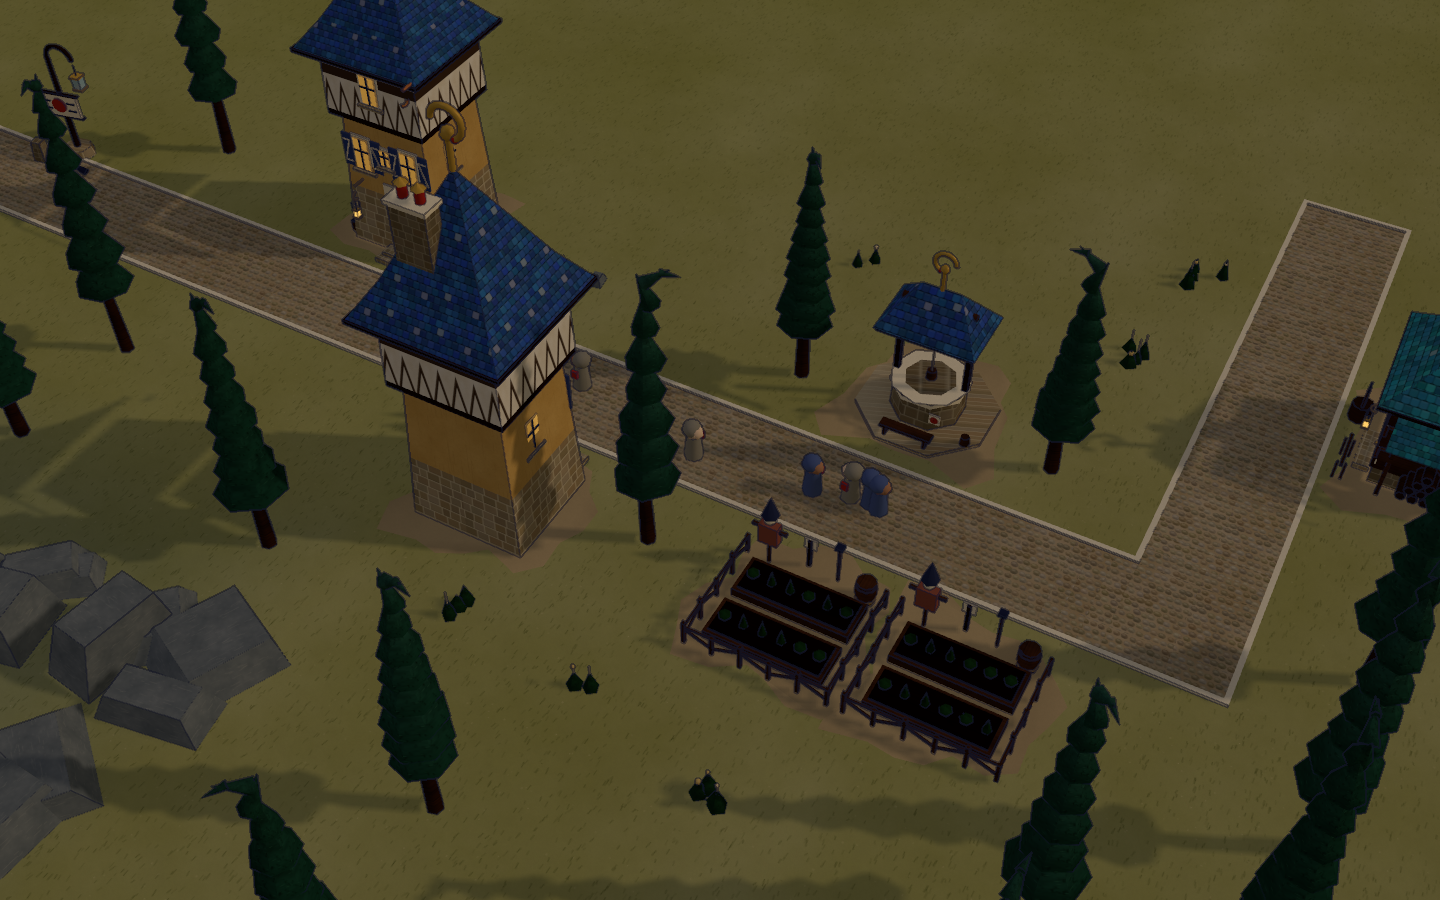
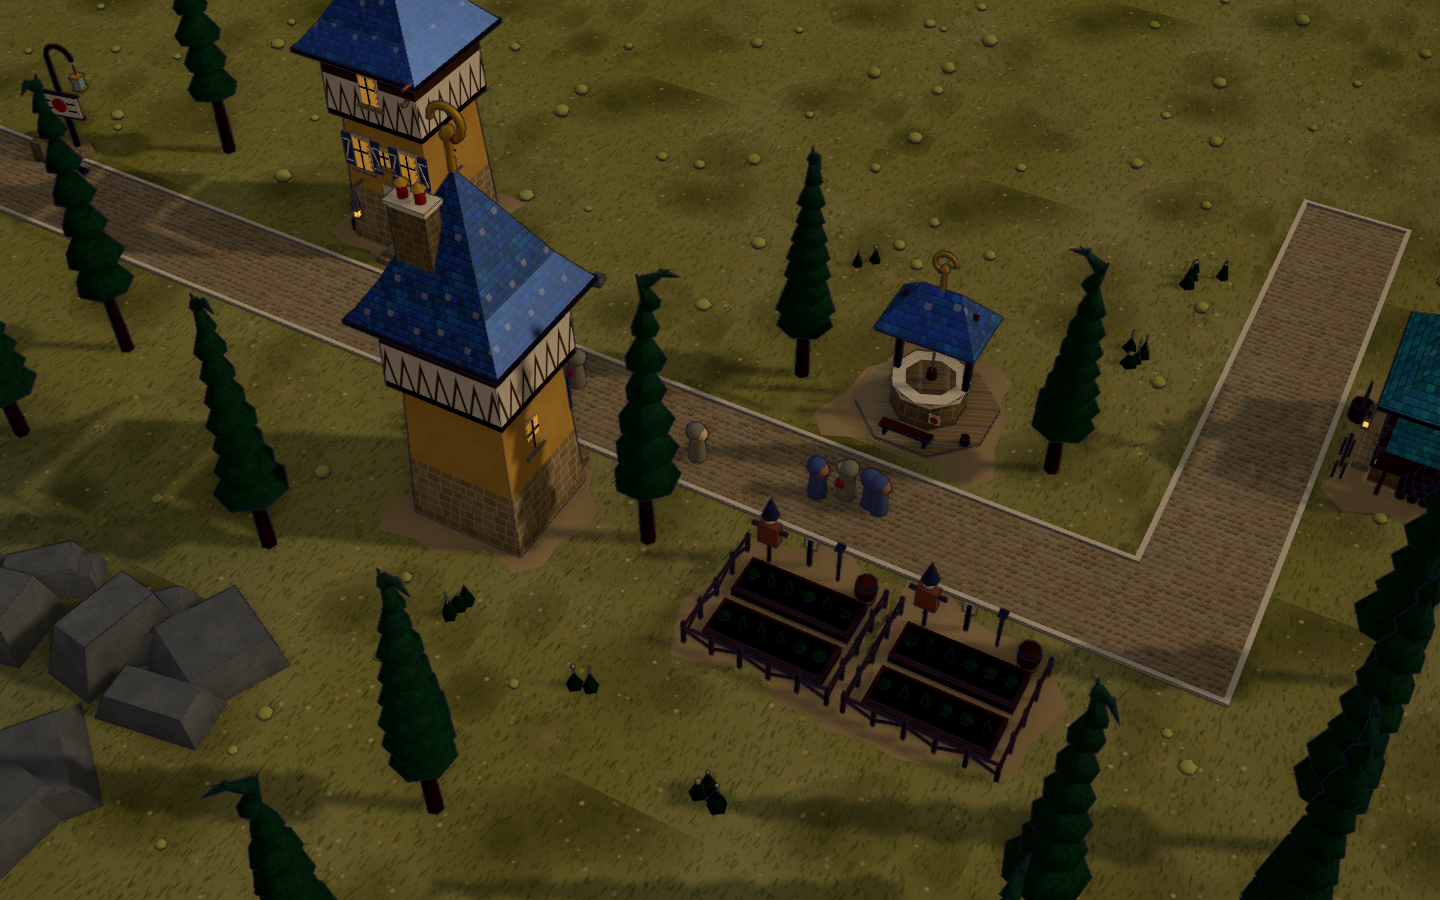
Graphics pass: SSAO, sky gradient, glazed tile sheen, softer shadows, richer meadow
Ambient occlusion and a display-space grade in the ink composite, 4096 PCF
shadows on a tighter frustum, painted sky where there is no geometry, Phong
sheen on the glazed tiles, a richer meadow texture with pale tufts, baked
contact darkening at the foot of every building, pixel ratio up to 2.
Constitution v3 records what was kept and what was rejected.

Claude-Session: https://claude.ai/code/session_01W6QVXe3nt4epi226JdoceJ

diff --git a/src/render/inkpass.js b/src/render/inkpass.js
@@ -1,9 +1,25 @@
 import * as THREE from 'three';
 import { paperGrainTex } from './textures.js';
 
-// Ink pass: renders colour + depth, then normals, then draws ink lines where depth or
-// normals break, and lays paper grain over everything. This is what makes Hookwell read
-// as a drawing rather than a mesh.
+// Ink pass: renders colour + depth, then view-space normals, then in one composite:
+//  - screen-space ambient occlusion from depth + normals (grounds every object)
+//  - ink lines where depth or normals break
+//  - a painted sky gradient where there is no geometry
+//  - a gentle wash grade, vignette and paper grain
+// This is what makes Hookwell read as a drawing rather than a mesh.
+
+function makeKernel(n) {
+  const out = [];
+  let seed = 3;
+  const rnd = () => { seed = (seed * 16807) % 2147483647; return seed / 2147483647; };
+  for (let i = 0; i < n; i++) {
+    const v = new THREE.Vector3(rnd() * 2 - 1, rnd() * 2 - 1, rnd()).normalize();
+    let s = (i + 1) / n; s = 0.15 + 0.85 * s * s;   // cluster near the origin
+    v.multiplyScalar(rnd() * s);
+    out.push(v);
+  }
+  return out;
+}
 
 export class InkPass {
   constructor(renderer, scene, camera) {
@@ -12,22 +28,32 @@ export class InkPass {
     this.rt = new THREE.WebGLRenderTarget(size.x, size.y, { type: THREE.HalfFloatType, samples: 4, depthTexture: new THREE.DepthTexture(size.x, size.y, THREE.UnsignedIntType) });
     this.rtN = new THREE.WebGLRenderTarget(size.x, size.y, { samples: 4 });
     this.normalMat = new THREE.MeshNormalMaterial();
+    const N = 12;
     this.mat = new THREE.ShaderMaterial({
+      defines: { N_SAMPLES: N },
       uniforms: {
         tColor: { value: this.rt.texture }, tDepth: { value: this.rt.depthTexture }, tNormal: { value: this.rtN.texture },
         tPaper: { value: paperGrainTex() }, res: { value: new THREE.Vector2(size.x, size.y) },
         near: { value: camera.near }, far: { value: camera.far }, ink: { value: new THREE.Color(0x1b1e33) },
-        strength: { value: 0.85 }, grain: { value: 0.14 }, night: { value: 0 },
+        proj: { value: new THREE.Matrix4() }, projInv: { value: new THREE.Matrix4() },
+        kernel: { value: makeKernel(N) }, aoRadius: { value: 1.6 }, aoStrength: { value: 0.75 },
+        strength: { value: 0.85 }, grain: { value: 0.11 }, night: { value: 0 }, lineW: { value: 1 },
+        skyTop: { value: new THREE.Color(0xcfd9df) }, skyBot: { value: new THREE.Color(0xeadfc6) },
       },
       vertexShader: `varying vec2 vUv; void main(){ vUv = uv; gl_Position = vec4(position.xy, 0.0, 1.0); }`,
       fragmentShader: `
-        uniform sampler2D tColor, tDepth, tNormal, tPaper; uniform vec2 res; uniform float near, far, strength, grain, night; uniform vec3 ink;
+        uniform sampler2D tColor, tDepth, tNormal, tPaper; uniform vec2 res; uniform float near, far, strength, grain, night, aoRadius, aoStrength, lineW;
+        uniform vec3 ink, skyTop, skyBot; uniform mat4 proj, projInv; uniform vec3 kernel[N_SAMPLES];
         varying vec2 vUv;
         float lin(vec2 uv){ float z = texture2D(tDepth, uv).x; float n = z*2.0-1.0; return (2.0*near*far)/(far+near-n*(far-near)); }
+        vec3 viewPos(vec2 uv){ float z = texture2D(tDepth, uv).x; vec4 c = projInv * vec4(uv*2.0-1.0, z*2.0-1.0, 1.0); return c.xyz / c.w; }
+        float ign(vec2 p){ return fract(52.9829189 * fract(0.06711056*p.x + 0.00583715*p.y)); }
         void main(){
-          vec2 px = 1.0/res;
+          vec2 px = lineW/res;
           float d = lin(vUv);
-          vec3 n = texture2D(tNormal, vUv).xyz*2.0-1.0;
+          float sky = step(far*0.9, d);
+          vec3 n = normalize(texture2D(tNormal, vUv).xyz*2.0-1.0);
+          // ---- ink lines
           float de = 0.0, ne = 0.0;
           vec2 offs[4]; offs[0]=vec2(px.x,0.0); offs[1]=vec2(-px.x,0.0); offs[2]=vec2(0.0,px.y); offs[3]=vec2(0.0,-px.y);
           for(int i=0;i<4;i++){
@@ -36,15 +62,52 @@ export class InkPass {
             vec3 nn = texture2D(tNormal, vUv+offs[i]).xyz*2.0-1.0;
             ne += smoothstep(0.30, 0.55, 1.0-dot(n,nn));
           }
-          float edge = clamp(de*0.9 + ne*0.55, 0.0, 1.0);
+          float edge = clamp(de*0.9 + ne*0.55, 0.0, 1.0) * (1.0 - sky);
           float fade = 1.0 - smoothstep(70.0, 160.0, d);
+          // ---- ambient occlusion
+          float ao = 1.0;
+          if (sky < 0.5) {
+            vec3 p = viewPos(vUv);
+            float a = ign(gl_FragCoord.xy) * 6.2831853;
+            vec3 rv = vec3(cos(a), sin(a), 0.0);
+            vec3 t = normalize(rv - n * dot(rv, n));
+            vec3 b = cross(n, t);
+            mat3 tbn = mat3(t, b, n);
+            float occ = 0.0;
+            float radius = aoRadius * (1.0 + d * 0.01);
+            for (int i = 0; i < N_SAMPLES; i++) {
+              vec3 sp = p + tbn * kernel[i] * radius;
+              vec4 c = proj * vec4(sp, 1.0);
+              vec2 suv = c.xy / c.w * 0.5 + 0.5;
+              if (suv.x < 0.0 || suv.x > 1.0 || suv.y < 0.0 || suv.y > 1.0) continue;
+              float sceneZ = -viewPos(suv).z;
+              float sampleZ = -sp.z;
+              float range = smoothstep(0.0, 1.0, radius / abs((-p.z) - sceneZ));
+              occ += (sceneZ < sampleZ - 0.04 ? 1.0 : 0.0) * range;
+            }
+            ao = 1.0 - aoStrength * occ / float(N_SAMPLES);
+          }
+          // ---- compose
           vec3 col = texture2D(tColor, vUv).rgb;
+          col *= mix(1.0, ao, 1.0 - night*0.4);
           vec3 inkCol = mix(ink, col*0.35, 0.25);
           col = mix(col, inkCol, edge*strength*fade);
+          // sky where there is no geometry
+          vec3 skyCol = mix(skyBot, skyTop, smoothstep(0.30, 1.0, vUv.y));
+          col = mix(col, skyCol, sky);
           float g = texture2D(tPaper, vUv*res/256.0).r;
           col *= 1.0 - grain*(1.0-night*0.6) + grain*2.0*(g-0.5);
-          gl_FragColor = vec4(col, 1.0);
+          gl_FragColor = vec4(max(col, 0.0), 1.0);
           #include <colorspace_fragment>
+          // wash grade in display space: a touch of saturation and contrast, warm shadows, vignette
+          vec3 c = gl_FragColor.rgb;
+          float luma = dot(c, vec3(0.299, 0.587, 0.114));
+          c = mix(vec3(luma), c, 1.1);
+          c = (c - 0.5) * 1.05 + 0.5;
+          c += (1.0 - luma) * vec3(0.02, 0.008, -0.01) * (1.0 - night);
+          float v = length((vUv - 0.5) * vec2(1.0, res.y/res.x) * 1.4);
+          c *= 1.0 - 0.14 * smoothstep(0.5, 1.1, v);
+          gl_FragColor.rgb = clamp(c, 0.0, 1.0);
         }`,
       depthTest: false, depthWrite: false,
     });
@@ -58,7 +121,9 @@ export class InkPass {
   }
   render() {
     const r = this.renderer;
-    this.mat.uniforms.near.value = this.camera.near; this.mat.uniforms.far.value = this.camera.far;
+    const u = this.mat.uniforms;
+    u.near.value = this.camera.near; u.far.value = this.camera.far;
+    u.proj.value.copy(this.camera.projectionMatrix); u.projInv.value.copy(this.camera.projectionMatrixInverse);
     r.shadowMap.needsUpdate = true;
     r.setRenderTarget(this.rt); r.render(this.scene, this.camera);
     const bg = this.scene.background; const fog = this.scene.fog;

diff --git a/src/render/scene.js b/src/render/scene.js
@@ -1,4 +1,5 @@
 import * as THREE from 'three';
+import { mergeGeometries } from 'three/addons/utils/BufferGeometryUtils.js';
 import { W, H, TILE, BUILDINGS } from '../game/defs.js';
 import { idx, inBounds, buildingCells, footprint } from '../game/state.js';
 import { doorTile } from '../game/sim.js';
@@ -7,6 +8,7 @@ import { makeGround, makeRoads, makeChannels, leyMaterial, tileToWorld, worldToT
 import { BUILDERS } from './buildings.js';
 import { candlePine, inkwood, bloom, rockTile, spring, milePost, clump, waymark } from './props.js';
 import { personMesh } from './people.js';
+import { mulberry32 } from '../game/state.js';
 import { InkPass } from './inkpass.js';
 
 const PAPER = new THREE.Color(0xe9e2cf);
@@ -49,9 +51,9 @@ export class View {
   constructor(canvas, state) {
     this.state = state;
     this.renderer = new THREE.WebGLRenderer({ canvas, antialias: false, powerPreference: 'high-performance' });
-    this.renderer.setPixelRatio(Math.min(window.devicePixelRatio || 1, 1.5));
+    this.renderer.setPixelRatio(Math.min(window.devicePixelRatio || 1, 2));
     this.renderer.shadowMap.enabled = true;
-    this.renderer.shadowMap.type = THREE.PCFSoftShadowMap;
+    this.renderer.shadowMap.type = THREE.PCFShadowMap;
     this.renderer.shadowMap.autoUpdate = false;
     this.scene = new THREE.Scene();
     this.scene.background = PAPER.clone();
@@ -63,10 +65,10 @@ export class View {
     // lights
     this.sun = new THREE.DirectionalLight(0xffffff, 2.0);
     this.sun.castShadow = true;
-    this.sun.shadow.mapSize.set(2048, 2048);
+    this.sun.shadow.mapSize.set(4096, 4096);
     this.sun.shadow.camera.near = 10; this.sun.shadow.camera.far = 220;
-    this.sun.shadow.bias = -0.0008; this.sun.shadow.normalBias = 0.03;
-    this.sun.shadow.radius = 2;
+    this.sun.shadow.bias = -0.0005; this.sun.shadow.normalBias = 0.04;
+    this.sun.shadow.radius = 5;
     this.scene.add(this.sun); this.scene.add(this.sun.target);
     this.hemi = new THREE.HemisphereLight(0xe9e4d3, 0xc9b48c, 0.9);
     this.scene.add(this.hemi);
@@ -85,6 +87,7 @@ export class View {
     }
     { const [wx, wz] = tileToWorld(3, state.entry.y); const m = waymark(); m.position.set(wx + 0.3, 0, wz - 1.75); m.rotation.y = 0.2; this.static.add(m); }
     this.leyMat = leyMaterial();
+    this.tufts = this.makeTufts(); this.scene.add(this.tufts);
     this.roads = null; this.channels = null;
     this.tileObjs = new Map();     // idx -> {key, obj}
     this.buildingObjs = new Map(); // id -> {key, obj}
@@ -112,6 +115,7 @@ export class View {
     this.camera.aspect = w / h; this.camera.updateProjectionMatrix();
     const s = this.renderer.getDrawingBufferSize(new THREE.Vector2());
     this.ink.setSize(s.x, s.y);
+    this.ink.mat.uniforms.lineW.value = Math.max(1, s.x / 1500);
   }
 
   // ------------------------------------------------------------ camera
@@ -125,7 +129,7 @@ export class View {
     this.camera.lookAt(c.x, 0, c.z);
     // shadow frustum follows the camera target
     const sc = this.sun.shadow.camera;
-    const ext = Math.max(40, c.dist * 1.3);
+    const ext = Math.max(28, c.dist * 0.95);
     sc.left = -ext; sc.right = ext; sc.top = ext; sc.bottom = -ext; sc.updateProjectionMatrix();
     this.sun.target.position.set(c.x, 0, c.z);
   }
@@ -173,6 +177,7 @@ export class View {
     if (this.roads) this.dyn.remove(this.roads);
     this.roads = makeRoads(s); this.dyn.add(this.roads);
     this.rebuildChannels();
+    this.refreshTufts();
     // tiles: trees, bloom
     const seen = new Set();
     for (let y = 0; y < H; y++) for (let x = 0; x < W; x++) {
@@ -250,6 +255,39 @@ export class View {
     }
   }
 
+  makeTufts() {
+    // low pale tufts: a squat cone with a lighter tip, one draw call for the whole meadow
+    const g = new THREE.SphereGeometry(0.2, 6, 4); g.scale(1, 0.55, 1); g.translate(0, 0.08, 0);
+    const pos = g.getAttribute('position'); const col = new Float32Array(pos.count * 3);
+    for (let i = 0; i < pos.count; i++) { const f = 0.8 + 0.3 * Math.max(0, pos.getY(i) / 0.2); col[i * 3] = f; col[i * 3 + 1] = f; col[i * 3 + 2] = f * 0.9; }
+    g.setAttribute('color', new THREE.BufferAttribute(col, 3));
+    const m = new THREE.MeshLambertMaterial({ color: 0xc2c98a, vertexColors: true });
+    const mesh = new THREE.InstancedMesh(g, m, 2600);
+    mesh.receiveShadow = true; mesh.castShadow = false; mesh.frustumCulled = false;
+    return mesh;
+  }
+  refreshTufts() {
+    const s = this.state, mesh = this.tufts;
+    const rnd = mulberry32(99); const mat = new THREE.Matrix4(); const q = new THREE.Quaternion(); const e = new THREE.Euler();
+    const col = new THREE.Color();
+    let n = 0;
+    for (let y = 0; y < H; y++) for (let x = 0; x < W; x++) {
+      const t = s.tiles[idx(x, y)];
+      const [wx, wz] = tileToWorld(x, y);
+      for (let k = 0; k < 2; k++) {
+        const ox = (rnd() - 0.5) * 3.6, oz = (rnd() - 0.5) * 3.6, ry = rnd() * 6.28, sc = 0.6 + rnd() * 0.8;
+        if (t.road || t.building || t.terrain !== 'grass' || t.bloom || t.tree || rnd() < 0.35) continue;
+        if (n >= mesh.count) break;
+        mat.compose(new THREE.Vector3(wx + ox, 0, wz + oz), q.setFromEuler(e.set(0, ry, 0)), new THREE.Vector3(sc, sc * (0.8 + t.fert * 0.5), sc));
+        mesh.setMatrixAt(n, mat);
+        col.setHSL(0.17 - t.fert * 0.04, 0.34, 0.6 + rnd() * 0.15); mesh.setColorAt(n, col);
+        n++;
+      }
+    }
+    for (let i = n; i < mesh.count; i++) { mat.makeScale(0, 0, 0); mesh.setMatrixAt(i, mat); }
+    mesh.instanceMatrix.needsUpdate = true; if (mesh.instanceColor) mesh.instanceColor.needsUpdate = true;
+  }
+
   rebuildChannels() {
     if (this.channels) this.dyn.remove(this.channels);
     this.channels = makeChannels(this.state, this.leyMat); this.dyn.add(this.channels);
@@ -286,14 +324,16 @@ export class View {
     const warm = new THREE.Color(1.0, 0.96, 0.9), gold = new THREE.Color(1.0, 0.72, 0.45);
     const lowSun = 1 - Math.min(1, dayRaw * 1.6);
     this.sun.color.copy(warm).lerp(gold, lowSun);
-    this.sun.intensity = 2.0 * dayF + 0.0;
+    this.sun.intensity = 2.6 * dayF + 0.0;
     const night = 1 - Math.min(1, dayF * 1.6);
     const skyDay = new THREE.Color(0xe9e4d3), skyNight = new THREE.Color(0x1f2440), skyDusk = new THREE.Color(0xe7c7a0);
     const sky = skyDay.clone().lerp(skyDusk, lowSun * (1 - night)).lerp(skyNight, night);
+    const zenith = new THREE.Color(0xc9d6de).lerp(new THREE.Color(0xd8b48c), lowSun * (1 - night)).lerp(new THREE.Color(0x141a30), night);
     this.scene.background.copy(sky); this.scene.fog.color.copy(sky);
+    this.ink.mat.uniforms.skyBot.value.copy(sky); this.ink.mat.uniforms.skyTop.value.copy(zenith);
     this.hemi.color.copy(sky).lerp(new THREE.Color(0xffffff), 0.2);
     this.hemi.groundColor.set(0xc9b48c).lerp(new THREE.Color(0x151a30), night);
-    this.hemi.intensity = 1.15 - night * 0.7;
+    this.hemi.intensity = 0.95 - night * 0.55;
     this.moon.intensity = night * 0.5;
     this.moon.position.set(-40, 60, 30);
     setGlow(Math.min(1, night * 1.4 + lowSun * 0.3));

diff --git a/src/render/textures.js b/src/render/textures.js
@@ -191,14 +191,24 @@ export function cobbleTex(seed = 6) {
 export function groundTex(seed = 7) {
   const S = 512, c = canvas(S, S), ctx = c.getContext('2d'), rnd = mulberry32(seed);
   ctx.fillStyle = '#c7b48d'; ctx.fillRect(0, 0, S, S);
-  mottle(ctx, S, rnd, { h: 62, s: 26, l0: 52, l1: 66, octaves: [3, 6, 14, 48], weights: [0.45, 0.3, 0.2, 0.12] });
-  // grass tufts as short ink ticks
-  for (let i = 0; i < 2200; i++) {
-    const x = rnd() * S, y = rnd() * S;
-    ctx.strokeStyle = `rgba(70,80,30,${0.12 + rnd() * 0.25})`; ctx.lineWidth = 1;
-    ctx.beginPath(); ctx.moveTo(x, y); ctx.lineTo(x + (rnd() - 0.5) * 3, y - 3 - rnd() * 4); ctx.stroke();
+  mottle(ctx, S, rnd, { h: 62, s: 26, l0: 50, l1: 66, octaves: [3, 6, 14, 48], weights: [0.45, 0.3, 0.2, 0.12] });
+  // darker damp patches and paler worn patches
+  for (let i = 0; i < 26; i++) {
+    const x = rnd() * S, y = rnd() * S, r = 20 + rnd() * 60;
+    const grd = ctx.createRadialGradient(x, y, 0, x, y, r);
+    const dark = rnd() < 0.55;
+    grd.addColorStop(0, dark ? 'rgba(70,80,40,0.28)' : 'rgba(225,210,170,0.3)'); grd.addColorStop(1, 'rgba(0,0,0,0)');
+    ctx.fillStyle = grd; ctx.beginPath(); ctx.ellipse(x, y, r, r * (0.5 + rnd() * 0.5), rnd() * 3, 0, 7); ctx.fill();
   }
-  for (let i = 0; i < 300; i++) { ctx.fillStyle = `rgba(240,230,200,${0.2 + rnd() * 0.3})`; ctx.fillRect(rnd() * S, rnd() * S, 1, 1); }
+  // grass as short ink ticks, denser in the damp patches
+  for (let i = 0; i < 6000; i++) {
+    const x = rnd() * S, y = rnd() * S;
+    ctx.strokeStyle = `rgba(60,75,30,${0.12 + rnd() * 0.28})`; ctx.lineWidth = 1 + rnd();
+    ctx.beginPath(); ctx.moveTo(x, y); ctx.lineTo(x + (rnd() - 0.5) * 4, y - 3 - rnd() * 6); ctx.stroke();
+  }
+  // a scattering of pale flowers and small stones
+  for (let i = 0; i < 220; i++) { ctx.fillStyle = rnd() < 0.6 ? `rgba(245,235,205,${0.5 + rnd() * 0.4})` : `rgba(230,190,110,${0.5 + rnd() * 0.4})`; ctx.beginPath(); ctx.arc(rnd() * S, rnd() * S, 1 + rnd() * 1.5, 0, 7); ctx.fill(); }
+  for (let i = 0; i < 90; i++) { ctx.fillStyle = `rgba(120,118,110,${0.3 + rnd() * 0.3})`; ctx.beginPath(); ctx.ellipse(rnd() * S, rnd() * S, 1.5 + rnd() * 2, 1 + rnd(), rnd() * 3, 0, 7); ctx.fill(); }
   return tex(c);
 }
 

diff --git a/src/render/kit.js b/src/render/kit.js
@@ -148,11 +148,15 @@ export class Kit {
   }
   add(obj) { this.extras.push(obj); return this; }
 
-  build({ shadows = true } = {}) {
+  build({ shadows = true, groundAO = true } = {}) {
     const M = materials();
     const group = new THREE.Group();
     for (const [matKey, geoms] of this.parts) {
       const merged = mergeGeometries(geoms, false);
+      if (groundAO) {
+        const pos = merged.getAttribute('position'), col = merged.getAttribute('color');
+        for (let i = 0; i < pos.count; i++) { const f = 0.8 + 0.2 * Math.min(1, Math.max(0, pos.getY(i)) / 1.1); col.setXYZ(i, col.getX(i) * f, col.getY(i) * f, col.getZ(i) * f); }
+      }
       const mesh = new THREE.Mesh(merged, M[matKey] || M.plaster);
       mesh.castShadow = shadows; mesh.receiveShadow = shadows;
       mesh.name = matKey;

diff --git a/src/render/materials.js b/src/render/materials.js
@@ -29,8 +29,8 @@ export function materials() {
     plasterGrey: lam({ map: plaster, color: 0xcfcbbd }),
     ashlar: lam({ map: ashlar, color: 0xd8d0bc }),
     ashlarDark: lam({ map: ashlar, color: 0xa39c8c }),
-    tile: lam({ map: tile }),
-    tileTeal: lam({ map: tileTeal }),
+    tile: pho({ map: tile, specular: 0x5a78b0, shininess: 55 }),
+    tileTeal: pho({ map: tileTeal, specular: 0x4f9aa0, shininess: 55 }),
     timber: lam({ map: timber, color: 0xcaa88a }),
     timberDark: lam({ map: timber, color: 0x7a5a44 }),
     chevron: lam({ map: chevron }),

diff --git a/src/render/people.js b/src/render/people.js
@@ -45,7 +45,7 @@ export function person(rank, seed) {
       k.box({ x: 0.4 * S, y: 0.6 * S, z: 0, w: 0.16 * S, h: 0.3 * S, d: 0.34 * S, mat: 'timber' });
     }
   }
-  const g = k.build({ shadows: true });
+  const g = k.build({ shadows: true, groundAO: false });
   // beards and lanterns flipped make masters look like they are facing +z already; nothing to do.
   return g;
 }

diff --git a/CREATIVE_CONSTITUTION.md b/CREATIVE_CONSTITUTION.md
@@ -88,7 +88,10 @@ glyph by every door; the interface is a ledger of seals).
 
 Surfaces are painted, not photographed. The reference is **ink and wash on paper**: a
 depth/normal ink line around every form, washes of colour inside, chalk for joints, paper
-grain over the whole frame. Materials read at gameplay scale (a house is ~120 px tall at
+grain over the whole frame. Since v3 the composite also carries screen-space ambient
+occlusion (things sit *in* the ground), a painted sky gradient, glazed-tile specular sheen,
+and a display-space grade (slight saturation and contrast, warm shadows, soft vignette).
+Grading in linear space crushed the dark foliage to black and was rejected. Materials read at gameplay scale (a house is ~120 px tall at
 default zoom):
 
 | Material | Colour | Treatment |
@@ -186,3 +189,7 @@ and neutral daylight by default. Two project tools were built after real frictio
   between buildings; bloom redesigned with crust and gills; still-house opened so the copper
   reads; hooks enlarged; lodgings given mirrored doors and two pitches; waymark added.
   Pacing measured and rebalanced (stone economy, quills/masters thresholds).
+- v3 — graphics pass after "it looks a little ghetto": SSAO in the ink composite, 4096
+  PCF shadows with a tighter frustum, sky gradient, glazed-tile sheen, stronger sun against a
+  dimmer sky, richer meadow texture with damp/dry patches and flowers, pale tufts, baked
+  contact darkening at the foot of every building, pixel ratio up to 2.
